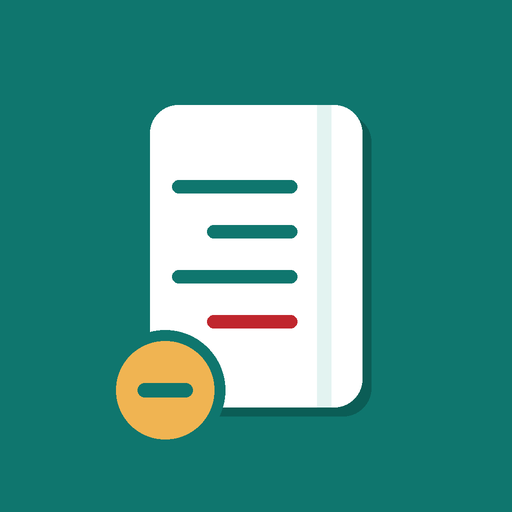
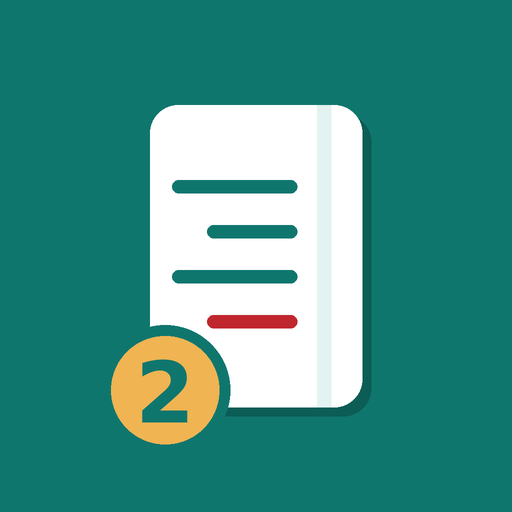
Add files via upload

Changed region(s): [[0.2188, 0.625, 0.4688, 0.875]]

diff --git a/index.html b/index.html
@@ -7,11 +7,11 @@
 <meta name="apple-mobile-web-app-capable" content="yes">
 <meta name="mobile-web-app-capable" content="yes">
 <meta name="apple-mobile-web-app-status-bar-style" content="black-translucent">
-<meta name="apple-mobile-web-app-title" content="الدفتر">
+<meta name="apple-mobile-web-app-title" content="الدفتر 2">
 <link rel="manifest" href="manifest.json">
 <link rel="apple-touch-icon" href="icon.png">
 <link rel="icon" href="icon.png">
-<title>الدفتر</title>
+<title>الدفتر 2</title>
 <style>
 :root{
   --bg:#f4f5f7;--card:#ffffff;--text:#14181f;--muted:#6b7280;--line:#e4e6ea;
@@ -41,9 +41,10 @@ header.top h1{font-size:22px;margin:0;flex:1;font-weight:700;white-space:nowrap;
 .icon-btn{border:0;background:var(--card);box-shadow:var(--shadow);border-radius:12px;width:40px;height:40px;display:grid;place-items:center;flex:none}
 .icon-btn svg{width:22px;height:22px}
 main{padding:0 16px calc(96px + env(safe-area-inset-bottom))}
-nav.tabs{position:fixed;bottom:0;left:0;right:0;z-index:6;background:var(--card);border-top:1px solid var(--line);
+nav.tabs{position:fixed;bottom:0;left:0;right:0;z-index:6;transform:translateZ(0);background:var(--card);border-top:1px solid var(--line);
   display:grid;grid-template-columns:repeat(5,1fr);padding-bottom:env(safe-area-inset-bottom)}
-nav.tabs button{border:0;background:none;padding:8px 2px 7px;display:flex;flex-direction:column;align-items:center;gap:2px;font-size:11.5px;color:var(--muted)}
+nav.tabs button{border:0;background:none;height:56px;padding:0 2px;display:flex;flex-direction:column;align-items:center;justify-content:center;gap:3px;font-size:11.5px;line-height:1.1;color:var(--muted)}
+nav.tabs button span{display:block;height:13px}
 nav.tabs button svg{width:24px;height:24px}
 nav.tabs button.on{color:var(--accent);font-weight:700}
 
@@ -393,14 +394,32 @@ function waNumber(p){
   else if(d.length === 10 && d.startsWith('7')) d = '964' + d;
   return d;
 }
-function balLine(b){ return b > 0 ? `المبلغ المطلوب الكلي: ${fn(b)} ألف دينار.` : b < 0 ? `عندك رصيد مقدّم ${fn(-b)} ألف دينار.` : 'حسابك مسدّد بالكامل، شكراً.'; }
+/* نصوص الرسائل — الكلمات بين {} تنبدل وحدها */
+const MSG = {
+  act: 'مرحباً {الاسم}،\nتم تفعيل اشتراكك بتاريخ {تاريخ التفعيل} وينتهي بتاريخ {تاريخ الانتهاء}.\n{سطر المبلغ}',
+  pay: 'مرحباً {الاسم}،\nتم تسديد {مبلغ التسديد} بتاريخ {التاريخ}، شكراً.\n{سطر المبلغ}',
+  soon: 'مرحباً {الاسم}،\nاشتراكك ينتهي بتاريخ {تاريخ الانتهاء}.\n{سطر المبلغ}',
+  expired: 'مرحباً {الاسم}،\nاشتراكك انتهى بتاريخ {تاريخ الانتهاء}.\n{سطر المبلغ}',
+  general: 'مرحباً {الاسم}،\nكشف حسابك لغاية {تاريخ اليوم}:\n{سطر المبلغ}',
+  balDue: 'المبلغ المطلوب الكلي: {المبلغ}. الرجاء التسديد بأقرب وقت.',
+  balCredit: 'عندك رصيد مقدّم {المبلغ}.',
+  balZero: 'حسابك مسدّد بالكامل، شكراً.',
+  sign: ''
+};
+// المبالغ بالتطبيق بالألف، وبالرسائل تنكتب كاملة: 35 ← 35,000 دينار
+function money(n){ return Math.round(n * 1000).toLocaleString('en-US') + ' دينار'; }
+function fill(t, v){ return t.replace(/\{([^}]+)\}/g, (m, k) => (k in v ? v[k] : m)); }
+function balLine(b){ return b > 0 ? fill(MSG.balDue, {'المبلغ': money(b)}) : b < 0 ? fill(MSG.balCredit, {'المبلغ': money(-b)}) : MSG.balZero; }
 function msgFor(type, c, s, extra){
-  const n = c.name;
-  if(type === 'act') return `مرحباً ${n}،\nتم تفعيل اشتراكك بتاريخ ${fd(extra.date)} وينتهي بتاريخ ${fd(addDays(extra.date, SUB_DAYS))}.\n${balLine(s.bal)}`;
-  if(type === 'expiry' && s.end) return s.left < 0
-    ? `مرحباً ${n}،\nاشتراكك انتهى بتاريخ ${fd(s.end)}.\n${balLine(s.bal)}`
-    : `مرحباً ${n}،\nاشتراكك ينتهي بتاريخ ${fd(s.end)}.\n${balLine(s.bal)}`;
-  return `مرحباً ${n}،\nكشف حسابك لغاية ${fd(today())}:\n${balLine(s.bal)}`;
+  extra = extra || {};
+  const v = {'الاسم': c.name, 'سطر المبلغ': balLine(s.bal), 'تاريخ اليوم': fd(today()), 'تاريخ الانتهاء': s.end ? fd(s.end) : ''};
+  let t;
+  if(type === 'act'){ v['تاريخ التفعيل'] = fd(extra.date); v['تاريخ الانتهاء'] = fd(addDays(extra.date, SUB_DAYS)); t = MSG.act; }
+  else if(type === 'pay'){ v['مبلغ التسديد'] = money(extra.amount); v['التاريخ'] = fd(extra.date); t = MSG.pay; }
+  else if(type === 'expiry' && s.end) t = s.left < 0 ? MSG.expired : MSG.soon;
+  else t = MSG.general;
+  const out = fill(t, v);
+  return MSG.sign ? out + '\n' + MSG.sign : out;
 }
 function openWhatsApp(c, text){
   const n = waNumber(c.phone);
@@ -455,12 +474,12 @@ function isIOS(){ return /iphone|ipad|ipod/i.test(navigator.userAgent) || (navig
 
 function showSetup(){
   $('#tabs').innerHTML = ''; $('#top').innerHTML = '';
-  $('#main').innerHTML = `<div class="login card"><img src="icon.png" alt=""><h2 class="center">الدفتر</h2>
+  $('#main').innerHTML = `<div class="login card"><img src="icon.png" alt=""><h2 class="center">الدفتر 2</h2>
     <div class="label center">التطبيق مو مربوط بقاعدة البيانات بعد: ملف <b>config.js</b> ناقص أو ما بيه إعدادات Firebase.</div></div>`;
 }
 function showLogin(msg){
   $('#tabs').innerHTML = ''; $('#top').innerHTML = '';
-  $('#main').innerHTML = `<div class="login card"><img src="icon.png" alt=""><h2 class="center">الدفتر</h2>
+  $('#main').innerHTML = `<div class="login card"><img src="icon.png" alt=""><h2 class="center">الدفتر 2</h2>
     <div class="label center" style="margin-bottom:16px">سجّل دخول بحسابك</div>
     <div class="err" id="ferr">${esc(msg || '')}</div>
     <div class="field"><label>الإيميل</label><input id="l_email" type="email" inputmode="email" autocomplete="username" dir="ltr"></div>
@@ -658,6 +677,7 @@ function txForm(kind, cid, t){
       commit({k:'tx', v:nt}, {type:KIND[kind], cid, text:`${c.name}: ${desc(nt)}`});
       const ns = stats().get(cid);
       if(kind === 'act') waPrompt(c, msgFor('act', c, ns, {date}), 'انحفظ التفعيل ✓');
+      else if(kind === 'pay'){ waPrompt(c, msgFor('pay', c, ns, {date, amount:amt}), 'انحفظ التسديد ✓'); toast(`${balText(ns.bal).s}: ${fn(Math.abs(ns.bal))}`); }
       else toast(`انحفظ ✓ — ${balText(ns.bal).s}: ${fn(Math.abs(ns.bal))}`);
     } else {
       const nt = {...t, date, amount:amt, note, updatedAt:nowISO()};
@@ -871,7 +891,7 @@ document.addEventListener('click', async ev => {
       case 'logout': {
         if(el.dataset.sure !== '1'){ el.dataset.sure = '1'; el.textContent = 'متأكد؟ اضغط مرة ثانية'; return; }
         await signOut(auth); break; }
-      case 'tab': UI.tab = el.dataset.k; UI.view = null; closeModal(); render(); scrollTo(0,0); break;
+      case 'tab': if(document.activeElement && document.activeElement.blur) document.activeElement.blur(); UI.tab = el.dataset.k; UI.view = null; closeModal(); render(); scrollTo(0,0); break;
       case 'filter': UI.filter = el.dataset.k; render(); break;
       case 'openCustomer': UI.view = {name:'customer', id}; history.pushState({v:1}, ''); render(); scrollTo(0,0); break;
       case 'back': if(history.state && history.state.v){ history.back(); } else { UI.view = null; render(); } break;
@@ -942,6 +962,8 @@ document.addEventListener('input', ev => {
   else if(t.id === 'f_date' && $('#f_endhint')) $('#f_endhint').textContent = t.value ? 'ينتهي الاشتراك بتاريخ ' + fd(addDays(t.value, SUB_DAYS)) : '';
 });
 document.addEventListener('keydown', ev => { if(ev.key === 'Enter' && (ev.target.id === 'l_pass' || ev.target.id === 'l_email')){ const b = $('[data-act=login]'); if(b) b.click(); } });
+/* iOS: بعد ما يتسد الكيبورد، نرجّع الصفحة لمكانها حتى ما يبقى الشريط السفلي مرتفع */
+document.addEventListener('focusout', ev => { if(/^(INPUT|TEXTAREA|SELECT)$/.test(ev.target.tagName)) setTimeout(() => { const a = document.activeElement; if(!a || !/^(INPUT|TEXTAREA|SELECT)$/.test(a.tagName)) window.scrollTo(window.scrollX, window.scrollY); }, 120); });
 document.addEventListener('change', ev => { if(ev.target.id === 'restoreFile' && ev.target.files[0]) restoreFrom(ev.target.files[0]); });
 window.addEventListener('popstate', () => { if($('#layer').innerHTML){ closeModal(); return; } if(UI.view){ UI.view = null; render(); } });
 

diff --git a/sw.js b/sw.js
@@ -1,11 +1,11 @@
 // الدفتر — service worker: يشغّل التطبيق حتى بدون نت، ويجيب آخر نسخة من الكود إذا النت موجود
-const CACHE = 'dafter-v2';
+const CACHE = 'daftar2-v1';
 const CORE = ['./', './index.html', './config.js', './manifest.json', './icon.png'];
 self.addEventListener('install', e => {
   e.waitUntil(caches.open(CACHE).then(c => c.addAll(CORE)).then(() => self.skipWaiting()));
 });
 self.addEventListener('activate', e => {
-  e.waitUntil(caches.keys().then(ks => Promise.all(ks.filter(k => k !== CACHE).map(k => caches.delete(k)))).then(() => self.clients.claim()));
+  e.waitUntil(caches.keys().then(ks => Promise.all(ks.filter(k => k.startsWith('daftar2-') && k !== CACHE).map(k => caches.delete(k)))).then(() => self.clients.claim()));
 });
 const timeout = ms => new Promise((_, rej) => setTimeout(() => rej(new Error('timeout')), ms));
 self.addEventListener('fetch', e => {
